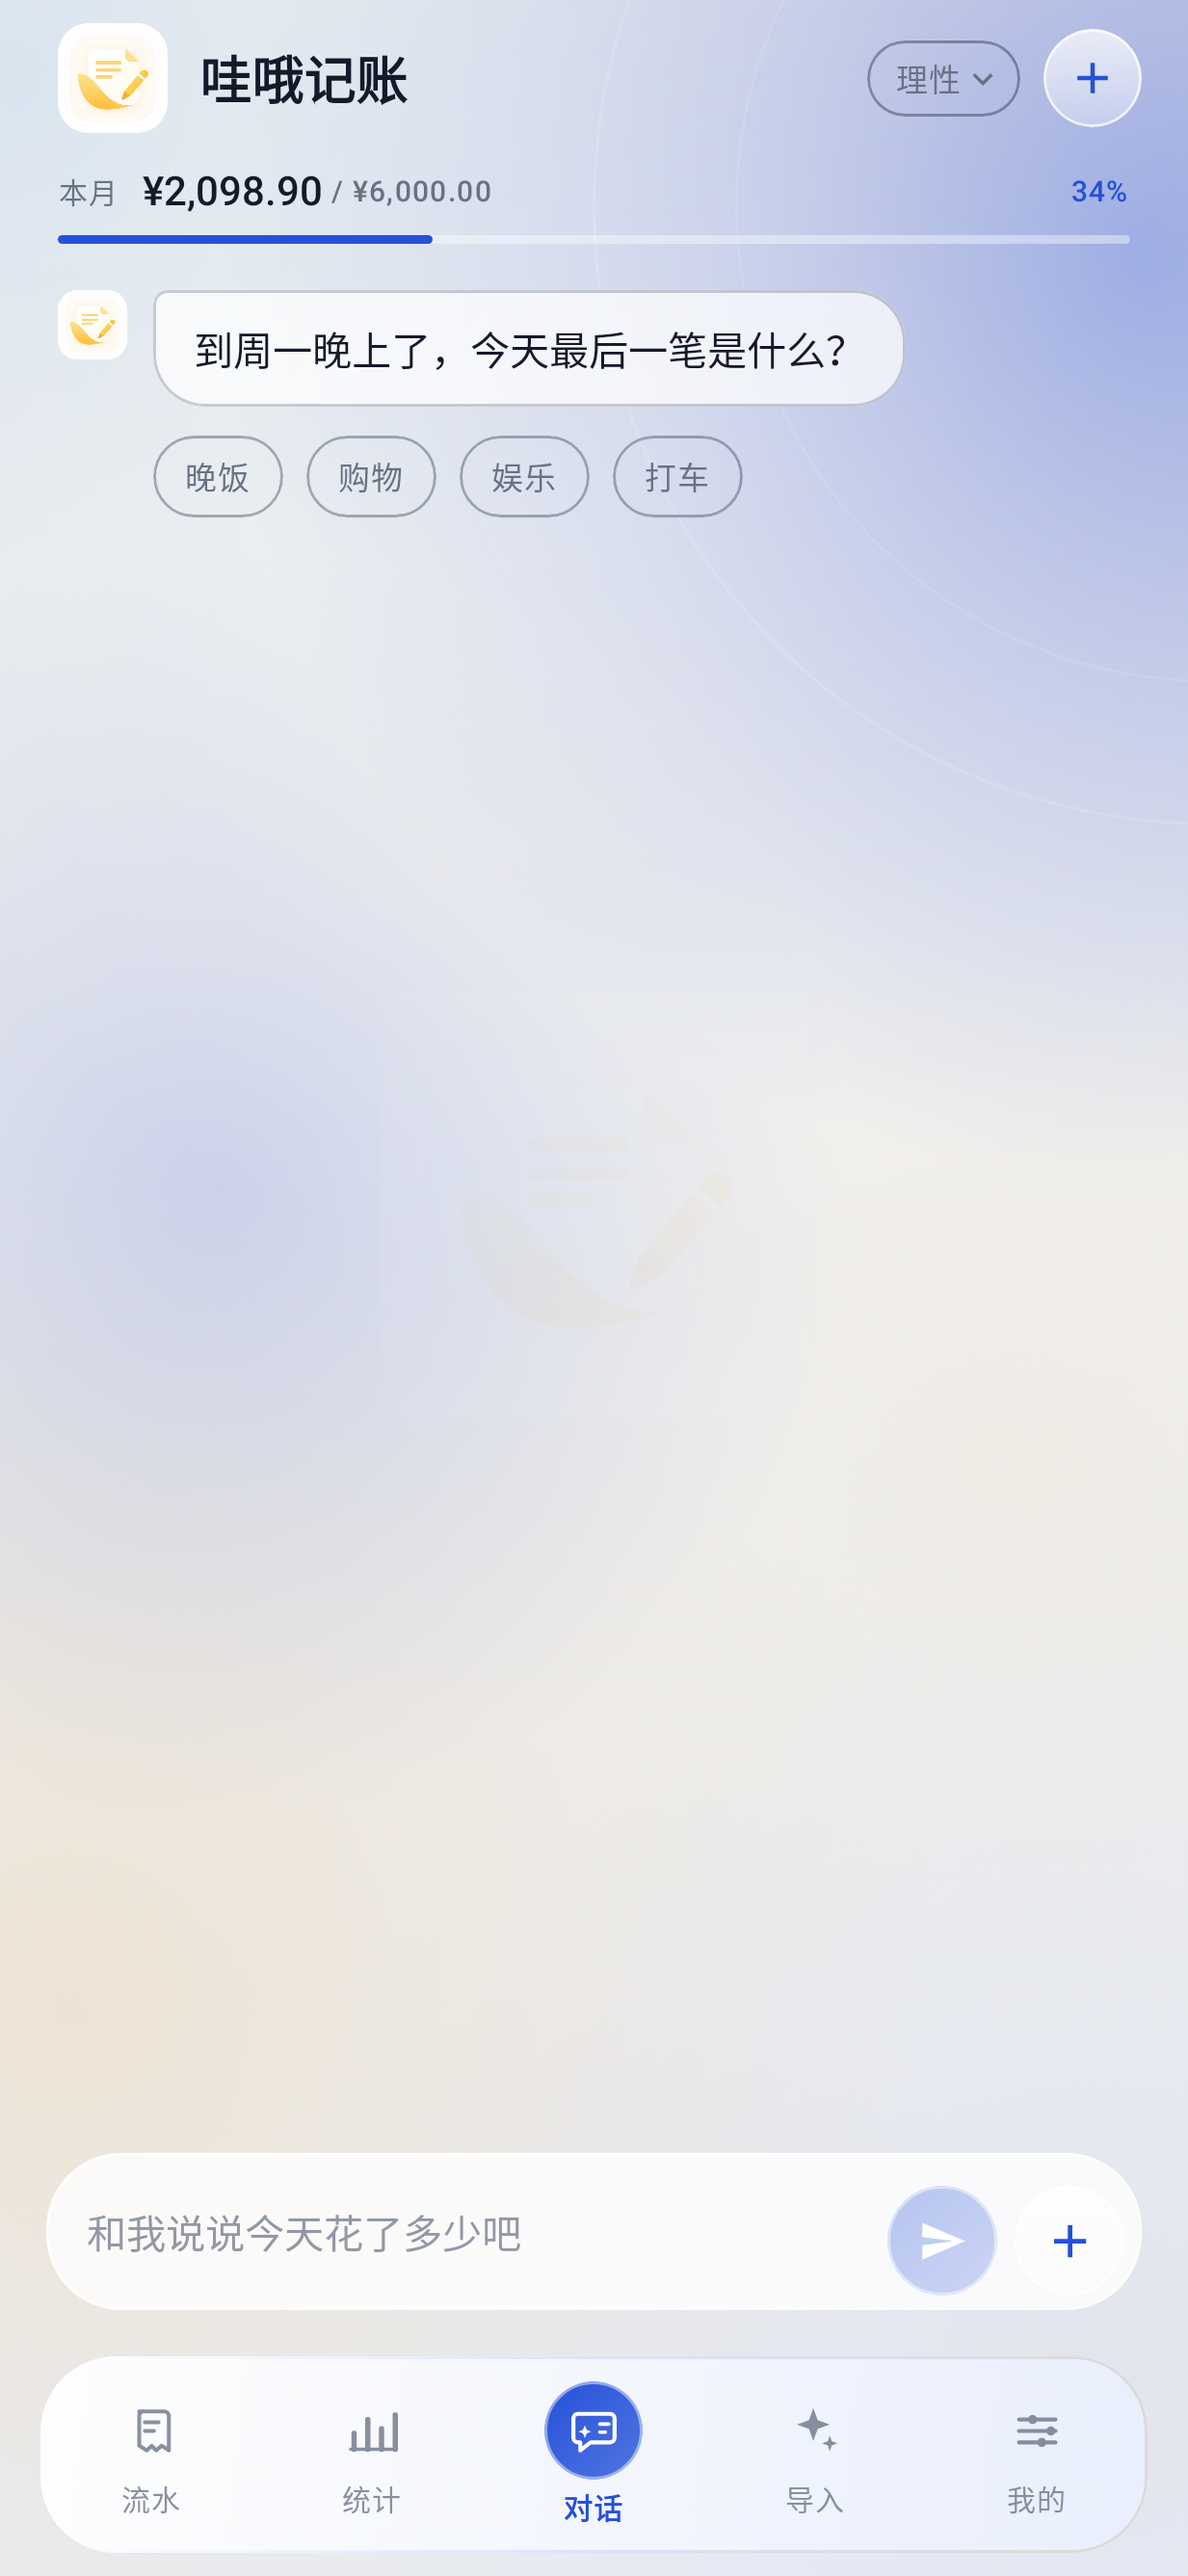
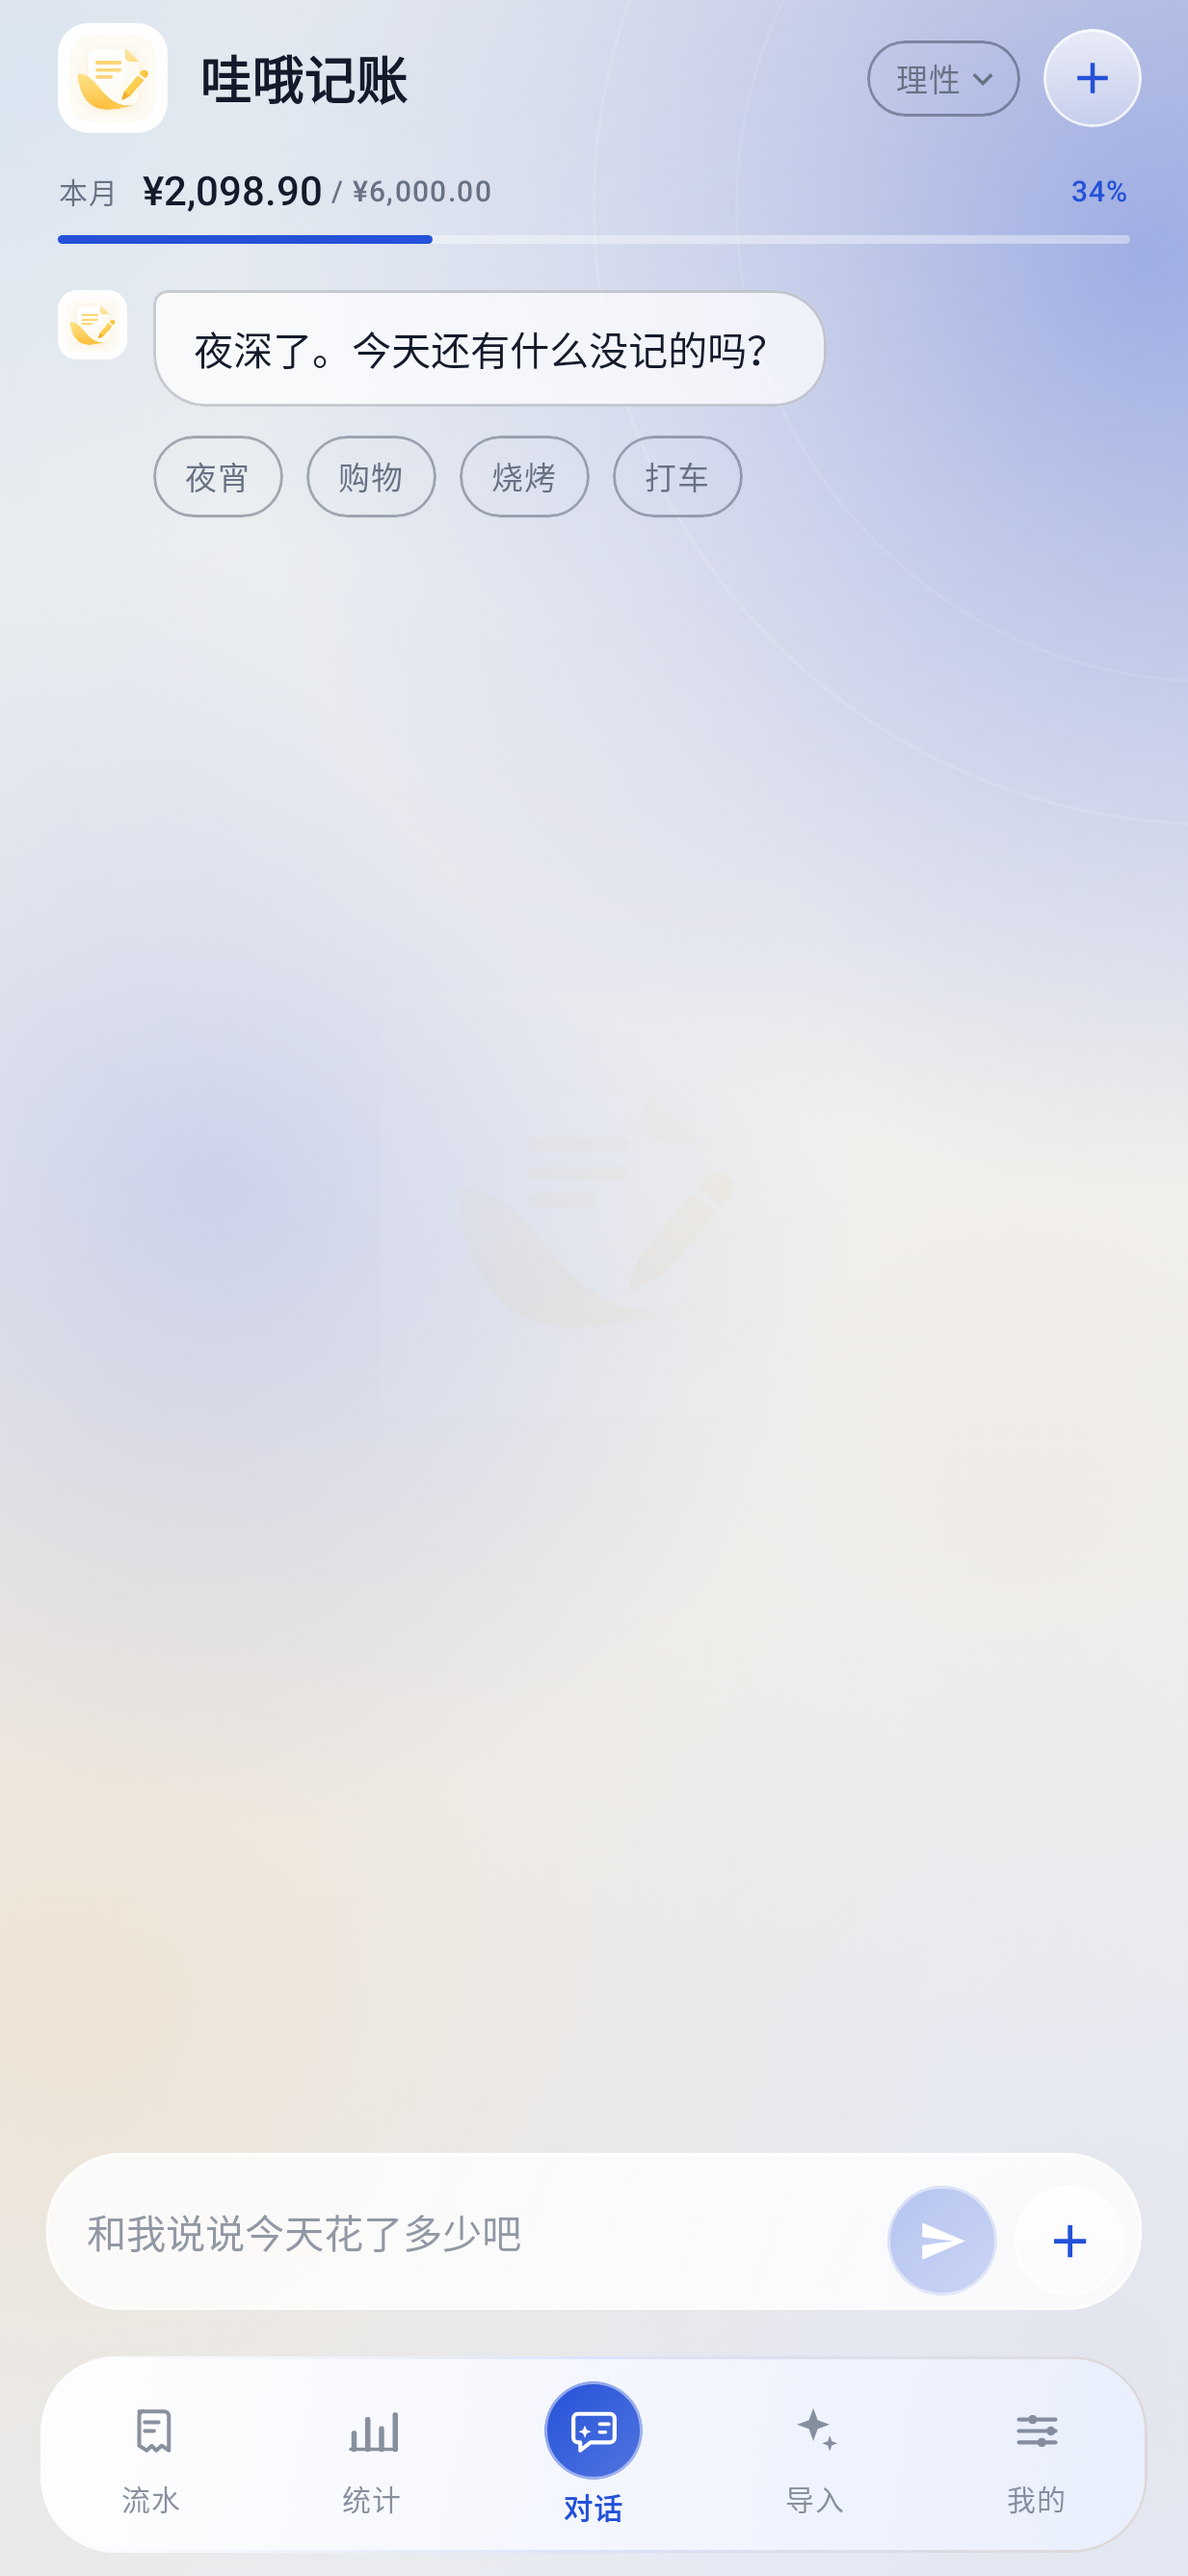
Release 1.1.3 with plain text update notes

Changed region(s): [[0.1541, 0.0932, 0.7705, 0.1863]]

diff --git a/app/src/main/java/app/zhizhang/ui/components/MarkdownText.kt b/app/src/main/java/app/zhizhang/ui/components/MarkdownText.kt
@@ -1,0 +1,43 @@
+package app.zhizhang.ui.components
+
+/**
+ * GitHub Release 的正文是 Markdown。更新弹窗不引入 Markdown 渲染器，
+ * 先转成干净的纯文本，避免把 #、**、[]() 等标记直接展示给用户。
+ */
+object MarkdownText {
+    fun toPlainText(markdown: String): String {
+        var text = markdown.replace("\r\n", "\n").replace('\r', '\n')
+
+        // 去掉代码围栏，但保留代码内容。
+        text = text.replace(Regex("(?s)```[^\\n]*\\n?(.*?)```"), "$1")
+        text = text.replace(Regex("`([^`]*)`"), "$1")
+
+        // 图片只保留 alt 文本。
+        text = text.replace(Regex("!\\[([^]]*)]\\([^)]*\\)"), "$1")
+        // 链接保留文字和地址，去掉 Markdown 括号语法。
+        text = text.replace(Regex("\\[([^]]+)]\\(([^)]+)\\)"), "$1 ($2)")
+
+        // 标题、引用、分隔线、任务列表。
+        text = text.replace(Regex("(?m)^[ \\t]{0,3}#{1,6}[ \\t]*"), "")
+        text = text.replace(Regex("(?m)^\\s{0,3}>\\s?"), "")
+        text = text.replace(Regex("(?m)^\\s*([-*_]\\s*){3,}$"), "")
+        text = text.replace(Regex("(?m)^\\s*[-*+]\\s+\\[[ xX]]\\s+"), "")
+
+        // 粗体、斜体、删除线。
+        text = text.replace(Regex("\\*\\*([^*]+)\\*\\*"), "$1")
+        text = text.replace(Regex("__([^_]+)__"), "$1")
+        text = text.replace(Regex("~~([^~]+)~~"), "$1")
+        text = text.replace(Regex("(?<!\\*)\\*([^*\\n]+)\\*(?!\\*)"), "$1")
+        text = text.replace(Regex("(?<!_)_([^_\\n]+)_(?!_)"), "$1")
+
+        // 列表符号、HTML 标签、行尾空格。
+        text = text.replace(Regex("(?m)^\\s*[-*+]\\s+"), "• ")
+        text = text.replace(Regex("(?m)^\\s*\\d+[.)]\\s+"), "• ")
+        text = text.replace(Regex("<[^>]+>"), "")
+        text = text.replace(Regex("(?m)[ \\t]+$"), "")
+
+        return text
+            .replace(Regex("\\n{3,}"), "\n\n")
+            .trim()
+    }
+}

diff --git a/app/src/test/java/app/zhizhang/ui/components/MarkdownTextTest.kt b/app/src/test/java/app/zhizhang/ui/components/MarkdownTextTest.kt
@@ -1,0 +1,25 @@
+package app.zhizhang.ui.components
+
+import org.junit.Assert.assertTrue
+import org.junit.Assert.assertFalse
+import org.junit.Test
+
+class MarkdownTextTest {
+
+    @Test
+    fun `markdown markers are removed for plain release notes`() {
+        val result = MarkdownText.toPlainText(
+            """
+            # 哇哦记账 v1.1.3
+
+            - **修复**了一些[已知问题](https://example.com)
+            - `优化`了部分体验
+            """.trimIndent(),
+        )
+        assertTrue(result.startsWith("哇哦记账 v1.1.3"))
+        assertTrue(result.contains("• 修复了一些已知问题 (https://example.com)"))
+        assertTrue(result.contains("• 优化了部分体验"))
+        assertFalse(result.contains("**"))
+        assertFalse(result.contains("#"))
+    }
+}

diff --git a/app/src/main/java/app/zhizhang/ui/settings/SettingsScreen.kt b/app/src/main/java/app/zhizhang/ui/settings/SettingsScreen.kt
@@ -105,6 +105,7 @@ import app.zhizhang.data.Formats
 import app.zhizhang.ui.components.BudgetDialog
 import app.zhizhang.ui.components.ConfirmDialog
 import app.zhizhang.ui.components.GlassDialog
+import app.zhizhang.ui.components.MarkdownText
 import app.zhizhang.ui.components.AppMark
 import app.zhizhang.ui.components.BaiduMark
 import app.zhizhang.ui.components.ZhCard
@@ -1080,7 +1081,7 @@ fun SettingsScreen(
                 if (release.notes.isBlank()) {
                     Text("有新版本可以更新。")
                 } else {
-                    Text(release.notes)
+                    Text(MarkdownText.toPlainText(release.notes))
                 }
                 Spacer(Modifier.height(10.dp))
                 Text(

diff --git a/CHANGELOG.md b/CHANGELOG.md
@@ -1,5 +1,12 @@
 # 更新日志
 
+## 1.1.3
+
+- 修复了一些已知问题
+- 优化了部分使用体验
+
+顺便喝了一瓶可乐。
+
 ## 1.1.2
 
 - 资产支持编辑购入日期；股票、基金、理财、虚拟资产不显示日期

diff --git a/README.md b/README.md
@@ -1,6 +1,6 @@
 # 哇哦记账 · WAOO
 
-当前版本：**1.1.2**（versionCode 70）
+当前版本：**1.1.3**（versionCode 71）
 
 > 哇哦一下，马上记账。
 >
